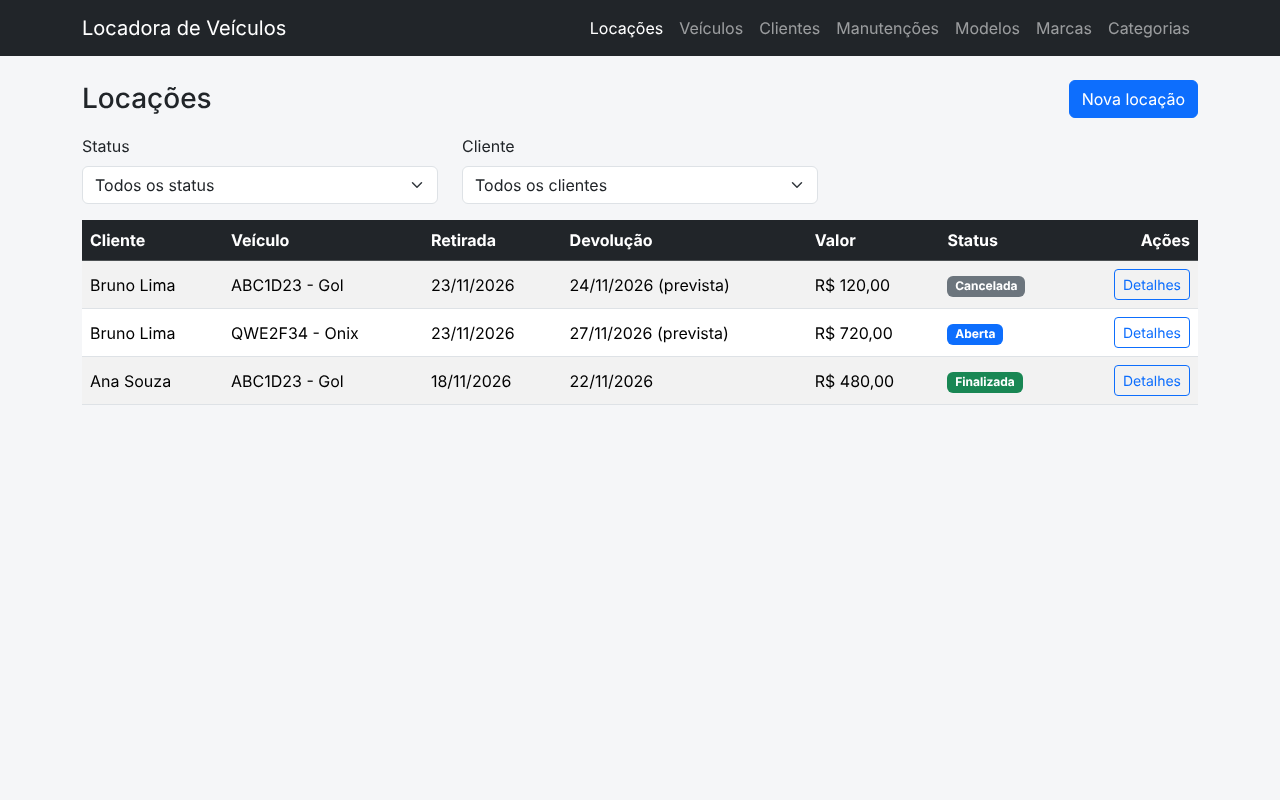
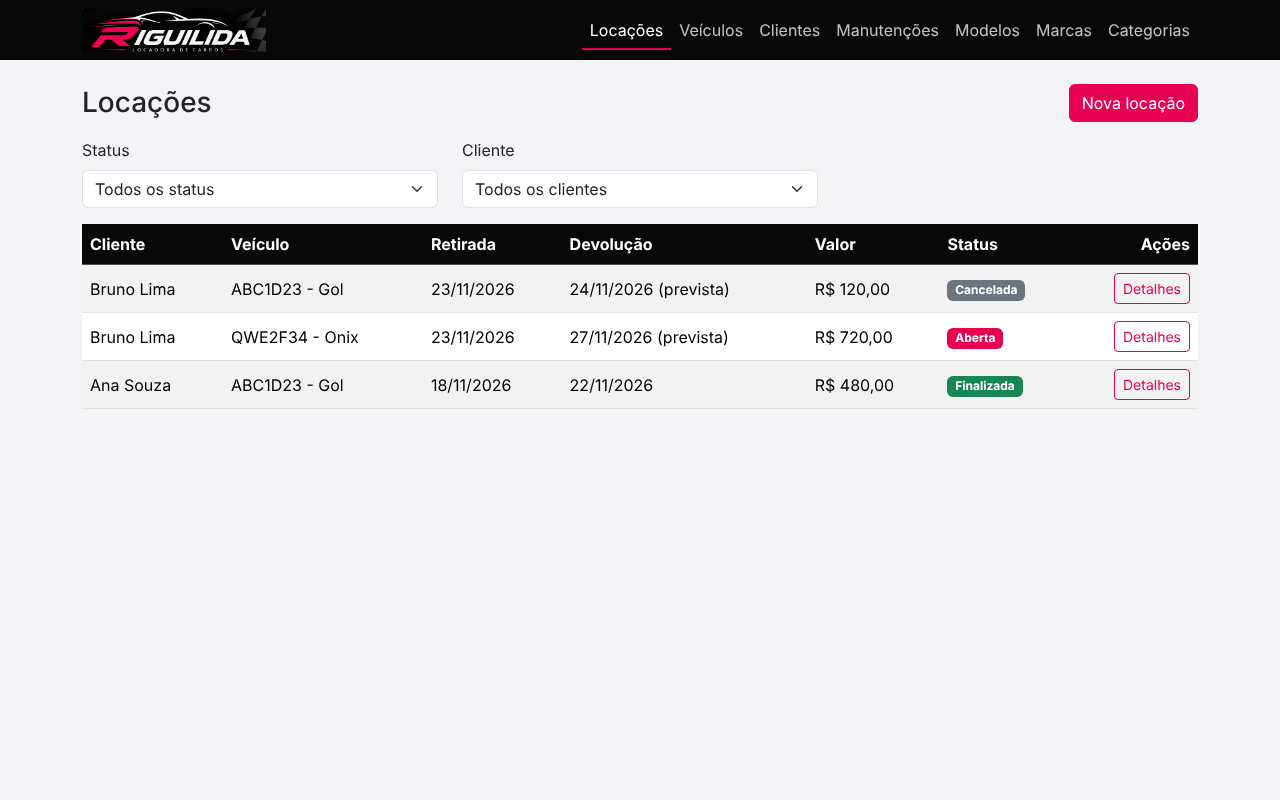
deixando o site com a cara da Riguilida

diff --git a/src/index.css b/src/index.css
@@ -1,3 +1,84 @@
+/* Identidade visual Riguilida: preto, rosa e branco */
+:root {
+  --rg-rosa: #e80052;
+  --rg-rosa-escuro: #c20045;
+  --rg-preto: #080808;
+}
+
 body {
-  background-color: #f5f6f8;
+  background-color: #f4f4f6;
+}
+
+/* Barra superior */
+.navbar-riguilida {
+  background-color: var(--rg-preto);
+}
+
+.navbar-riguilida .navbar-brand img {
+  height: 44px;
+}
+
+.navbar-riguilida .nav-link {
+  color: rgba(255, 255, 255, 0.75);
+}
+
+.navbar-riguilida .nav-link:hover,
+.navbar-riguilida .nav-link.active {
+  color: #ffffff;
+}
+
+.navbar-riguilida .nav-link.active {
+  box-shadow: inset 0 -2px 0 var(--rg-rosa);
+}
+
+/* Botões principais em rosa */
+.btn-primary {
+  --bs-btn-bg: var(--rg-rosa);
+  --bs-btn-border-color: var(--rg-rosa);
+  --bs-btn-hover-bg: var(--rg-rosa-escuro);
+  --bs-btn-hover-border-color: var(--rg-rosa-escuro);
+  --bs-btn-active-bg: var(--rg-rosa-escuro);
+  --bs-btn-active-border-color: var(--rg-rosa-escuro);
+  --bs-btn-disabled-bg: var(--rg-rosa);
+  --bs-btn-disabled-border-color: var(--rg-rosa);
+}
+
+.btn-outline-primary {
+  --bs-btn-color: var(--rg-rosa);
+  --bs-btn-border-color: var(--rg-rosa);
+  --bs-btn-hover-bg: var(--rg-rosa);
+  --bs-btn-hover-border-color: var(--rg-rosa);
+  --bs-btn-active-bg: var(--rg-rosa-escuro);
+  --bs-btn-active-border-color: var(--rg-rosa-escuro);
+}
+
+.badge.bg-primary {
+  background-color: var(--rg-rosa) !important;
+}
+
+/* Campos com foco em rosa */
+.form-control:focus,
+.form-select:focus {
+  border-color: var(--rg-rosa);
+  box-shadow: 0 0 0 0.2rem rgba(232, 0, 82, 0.15);
+}
+
+/* Cabeçalho das tabelas em preto */
+.table-dark {
+  --bs-table-bg: var(--rg-preto);
+}
+
+/* Faixa da página inicial */
+.banner-riguilida {
+  background-color: var(--rg-preto);
+  border-radius: 0.75rem;
+}
+
+.banner-riguilida img {
+  max-width: 100%;
+  height: auto;
+}
+
+.atalho-riguilida:hover {
+  border-color: var(--rg-rosa);
 }

diff --git a/src/pages/Home.tsx b/src/pages/Home.tsx
@@ -10,12 +10,14 @@ const atalhos = [
 export const Home = () => {
   return (
     <div className="container">
-      <h1 className="h3 mb-1">Locadora de Veículos</h1>
-      <p className="text-muted mb-4">Controle da frota, dos clientes e de todo o ciclo de uma locação.</p>
+      <div className="banner-riguilida text-center p-4 mb-4">
+        <img src="/logo-riguilida.png" alt="Riguilida - Locadora de Carros" width={620} />
+        <p className="text-white-50 mt-3 mb-0">Controle da frota, dos clientes e de todo o ciclo de uma locação.</p>
+      </div>
       <div className="row g-3">
         {atalhos.map((atalho) => (
           <div className="col-12 col-sm-6 col-lg-3" key={atalho.to}>
-            <Link to={atalho.to} className="card h-100 shadow-sm text-decoration-none text-reset">
+            <Link to={atalho.to} className="card h-100 shadow-sm text-decoration-none text-reset atalho-riguilida">
               <div className="card-body">
                 <h2 className="h5">{atalho.titulo}</h2>
                 <p className="card-text text-muted mb-0">{atalho.texto}</p>

diff --git a/src/components/Navbar.tsx b/src/components/Navbar.tsx
@@ -12,10 +12,10 @@ const links = [
 
 export const Navbar = () => {
   return (
-    <nav className="navbar navbar-expand-lg navbar-dark bg-dark mb-4">
+    <nav className="navbar navbar-expand-lg navbar-dark navbar-riguilida mb-4">
       <div className="container">
-        <Link className="navbar-brand" to="/">
-          Locadora de Veículos
+        <Link className="navbar-brand py-0" to="/">
+          <img src="/logo-riguilida.png" alt="Riguilida - Locadora de Carros" />
         </Link>
         <button
           className="navbar-toggler"

diff --git a/index.html b/index.html
@@ -2,9 +2,9 @@
 <html lang="pt-BR">
   <head>
     <meta charset="UTF-8" />
-    <link rel="icon" type="image/svg+xml" href="/favicon.svg" />
+    <link rel="icon" type="image/png" href="/favicon-riguilida.png" />
     <meta name="viewport" content="width=device-width, initial-scale=1.0" />
-    <title>Locadora de Veículos</title>
+    <title>Riguilida - Locadora de Carros</title>
   </head>
   <body>
     <div id="root"></div>

diff --git a/README.md b/README.md
@@ -1,9 +1,11 @@
-# Locadora de Veículos
+# Riguilida – Locadora de Carros
+
+![Riguilida](public/logo-riguilida.png)
 
 **Aluna:** Maria Júlia Costa Teodoro  
 **Disciplina:** Tecnologia de Construção de Software I – PUC Goiás
 
-Aplicação web para gerenciar uma locadora de veículos: controla a frota (marcas, categorias, modelos, veículos e manutenções), os clientes e todo o ciclo de uma locação, da retirada à devolução, com contrato, vistorias, pagamentos e nota fiscal.
+Aplicação web da **Riguilida**, uma locadora de carros: controla a frota (marcas, categorias, modelos, veículos e manutenções), os clientes e todo o ciclo de uma locação, da retirada à devolução, com contrato, vistorias, pagamentos e nota fiscal.
 
 O front-end foi feito em **React com TypeScript** (Vite), com interface em **Bootstrap**, e consome uma API REST simulada com **JSON Server**.
 
